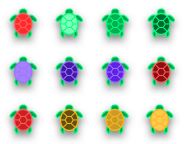
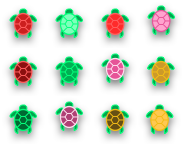
Update purple turtle sprites (fixes #503)

diff --git a/libhaliteviz/src/colors.js b/libhaliteviz/src/colors.js
@@ -11,7 +11,7 @@ export const COLOR_SCALE_2 = [
 ];
 
 export const COLORBLIND = [
- 0xcbcbcb,0xcbcbcb,0xcbcbcb,0xcbcbcb,0xcbcbcb,0xcbcbcb,0xcbcbcb,0xcbcbcb,0xcbcbcb,0xcbcbcb,0xcbcccb,0xcbcccb,0xcbcccb,0xcbcccc,0xcbcccc,0xcbcccc,0xcbcccc,0xcbcccc,0xcbcccc,0xcbcccc,0xcbcccc,0xcbcccc,0xcbcccc,0xcbcccc,0xcbcccc,0xcbcccc,0xcbcccc,0xcbcccc,0xcbcccc,0xcbcccc,0xcbcdcc,0xcbcdcc,0xcacdcc,0xcacdcc,0xcacdcc,0xcacdcc,0xcacdcc,0xcacdcd,0xcacdcd,0xcacdcd,0xcacdcd,0xcacdcd,0xcacdcd,0xcacdcd,0xcacdcd,0xcacdcd,0xcacdcd,0xcacdcd,0xcacdcd,0xcacecd,0xcacecd,0xcacecd,0xcacecd,0xcacecd,0xcacecd,0xcacecd,0xcacecd,0xcacecd,0xcacecd,0xcacecd,0xcacecd,0xcacece,0xcacece,0xcacece,0xcacece,0xcacece,0xcacece,0xcacece,0xcacece,0xcacfce,0xcacfce,0xcacfce,0xcacfce,0xcacfce,0xcacfce,0xcacfce,0xcacfce,0xcacfce,0xcacfce,0xcacfce,0xcacfce,0xcacfce,0xcacfce,0xcacfce,0xcacfce,0xcacfcf,0xcacfcf,0xcacfcf,0xcad0cf,0xcad0cf,0xcad0cf,0xcad0cf,0xcad0cf,0xc9d0cf,0xc9d0cf,0xc9d0cf,0xc9d0cf,0xc9d0cf,0xc9d0cf,0xc9d0cf,0xc9d0cf,0xc9d0cf,0xc9d0cf,0xc9d0cf,0xc9d0cf,0xc9d0cf,0xc9d0cf,0xc9d0cf,0xc9d1cf,0xc9d1d0,0xc9d1d0,0xc9d1d0,0xc9d1d0,0xc9d1d0,0xc9d1d0,0xc9d1d0,0xc9d1d0,0xc9d1d0,0xc9d1d0,0xc9d1d0,0xc9d1d0,0xc9d1d0,0xc9d1d0,0xc9d1d0,0xc9d1d0,0xc9d1d0,0xc9d1d0,0xc9d2d0,0xc9d2d0,0xc9d2d0,0xc9d2d0,0xc9d2d0,0xc9d2d0,0xc9d2d0,0xc9d2d1,0xc9d2d1,0xc9d2d1,0xc9d2d1,0xc9d2d1,0xc9d2d1,0xc9d2d1,0xc9d2d1,0xc9d2d1,0xc9d2d1,0xc9d2d1,0xc9d2d1,0xc9d2d1,0xc9d3d1,0xc9d3d1,0xc9d3d1,0xc8d3d1,0xc8d3d1,0xc8d3d1,0xc8d3d1,0xc8d3d1,0xc8d3d1,0xc8d3d1,0xc8d3d1,0xc8d3d2,0xc8d3d2,0xc8d3d2,0xc8d3d2,0xc8d3d2,0xc8d3d2,0xc8d3d2,0xc8d3d2,0xc8d4d2,0xc8d4d2,0xc8d4d2,0xc8d4d2,0xc8d4d2,0xc8d4d2,0xc8d4d2,0xc8d4d2,0xc8d4d2,0xc8d4d2,0xc8d4d2,0xc8d4d2,0xc8d4d2,0xc8d4d2,0xc8d4d2,0xc8d4d2,0xc8d4d3,0xc8d4d3,0xc8d4d3,0xc8d4d3,0xc8d5d3,0xc8d5d3,0xc8d5d3,0xc8d5d3,0xc8d5d3,0xc8d5d3,0xc8d5d3,0xc8d5d3,0xc8d5d3,0xc8d5d3,0xc8d5d3,0xc8d5d3,0xc8d5d3,0xc8d5d3,0xc8d5d3,0xc8d5d3,0xc8d5d3,0xc8d5d3,0xc8d5d3,0xc7d6d3,0xc7d6d4,0xc7d6d4,0xc7d6d4,0xc7d6d4,0xc7d6d4,0xc7d6d4,0xc7d6d4,0xc7d6d4,0xc7d6d4,0xc7d6d4,0xc7d6d4,0xc7d6d4,0xc7d6d4,0xc7d6d4,0xc7d6d4,0xc7d6d4,0xc7d6d4,0xc7d6d4,0xc7d6d4,0xc7d7d4,0xc7d7d4,0xc7d7d4,0xc7d7d4,0xc7d7d4,0xc7d7d5,0xc7d7d5,0xc7d7d5,0xc7d7d5,0xc7d7d5,0xc7d7d5,0xc7d7d5,0xc7d7d5,0xc7d7d5,0xc7d7d5,0xc7d7d5,0xc7d7d5,0xc7d7d5,0xc7d7d5,0xc7d7d5,0xc7d8d5,0xc7d8d5,0xc7d8d5,0xc7d8d5,0xc7d8d5,0xc7d8d5,0xc7d8d5,0xc7d8d5,0xc7d8d5,0xc7d8d6,0xc7d8d6,0xc7d8d6,0xc7d8d6,0xc6d8d6,0xc6d8d6,0xc6d8d6,0xc6d8d6,0xc6d8d6,0xc6d8d6,0xc6d9d6,0xc6d9d6,0xc6d9d6,0xc6d9d6,0xc6d9d6,0xc6d9d6,0xc6d9d6,0xc6d9d6,0xc6d9d6,0xc6d9d6,0xc6d9d6,0xc6d9d6,0xc6d9d6,0xc6d9d6,0xc6d9d7,0xc6d9d7,0xc6d9d7,0xc6d9d7,0xc6d9d7,0xc6d9d7,0xc6dad7,0xc6dad7,0xc6dad7,0xc6dad7,0xc6dad7,0xc6dad7,0xc6dad7,0xc6dad7,0xc6dad7,0xc6dad7,0xc6dad7,0xc6dad7,0xc6dad7,0xc6dad7,0xc6dad7,0xc6dad7,0xc6dad7,0xc6dad7,0xc6dad8,0xc6dbd8,0xc6dbd8,0xc6dbd8,0xc6dbd8,0xc6dbd8,0xc5dbd8,0xc5dbd8,0xc5dbd8,0xc5dbd8,0xc5dbd8,0xc5dbd8,0xc5dbd8,0xc5dbd8,0xc5dbd8,0xc5dbd8,0xc5dbd8,0xc5dbd8,0xc5dbd8,0xc5dbd8,0xc5dbd8,0xc5dcd8,0xc5dcd8,0xc5dcd8,0xc5dcd9,0xc5dcd9,0xc5dcd9,0xc5dcd9,0xc5dcd9,0xc5dcd9,0xc5dcd9,0xc5dcd9,0xc5dcd9,0xc5dcd9,0xc5dcd9,0xc5dcd9,0xc5dcd9,0xc5dcd9,0xc5dcd9,0xc5dcd9,0xc5ddd9,0xc5ddd9,0xc5ddd9,0xc5ddd9,0xc5ddd9,0xc5ddd9,0xc5ddd9,0xc5ddd9,0xc5ddda,0xc5ddda,0xc5ddda,0xc5ddda,0xc5ddda,0xc5ddda,0xc5ddda,0xc4ddda,0xc4ddda,0xc4ddda,0xc4ddda,0xc4ddda,0xc4deda,0xc4deda,0xc4deda,0xc4deda,0xc4deda,0xc4deda,0xc4deda,0xc4deda,0xc4deda,0xc4deda,0xc4deda,0xc4deda,0xc4dedb,0xc4dedb,0xc4dedb,0xc4dedb,0xc4dedb,0xc4dedb,0xc4dedb,0xc4dedb,0xc4dfdb,0xc4dfdb,0xc4dfdb,0xc4dfdb,0xc4dfdb,0xc4dfdb,0xc4dfdb,0xc4dfdb,0xc4dfdb,0xc4dfdb,0xc4dfdb,0xc4dfdb,0xc4dfdb,0xc4dfdb,0xc4dfdb,0xc4dfdb,0xc4dfdc,0xc4dfdc,0xc4dfdc,0xc4e0dc,0xc4e0dc,0xc3e0dc,0xc3e0dc,0xc3e0dc,0xc3e0dc,0xc3e0dc,0xc3e0dc,0xc3e0dc,0xc3e0dc,0xc3e0dc,0xc3e0dc,0xc3e0dc,0xc3e0dc,0xc3e0dc,0xc3e0dc,0xc3e0dc,0xc3e0dc,0xc3e0dc,0xc3e0dc,0xc3e1dd,0xc3e1dd,0xc3e1dd,0xc3e1dd,0xc3e1dd,0xc3e1dd,0xc3e1dd,0xc3e1dd,0xc3e1dd,0xc3e1dd,0xc3e1dd,0xc3e1dd,0xc3e1dd,0xc3e1dd,0xc3e1dd,0xc3e1dd,0xc3e1dd,0xc3e1dd,0xc3e1dd,0xc3e2dd,0xc3e2dd,0xc3e2dd,0xc3e2dd,0xc3e2dd,0xc3e2de,0xc3e2de,0xc3e2de,0xc2e2de,0xc2e2de,0xc2e2de,0xc2e2de,0xc2e2de,0xc2e2de,0xc2e2de,0xc2e2de,0xc2e2de,0xc2e2de,0xc2e2de,0xc2e2de,0xc2e3de,0xc2e3de,0xc2e3de,0xc2e3de,0xc2e3de,0xc2e3de,0xc2e3de,0xc2e3de,0xc2e3de,0xc2e3df,0xc2e3df,0xc2e3df,0xc2e3df,0xc2e3df,0xc2e3df,0xc2e3df,0xc2e3df,0xc2e3df,0xc2e3df,0xc2e3df,0xc2e4df,0xc2e4df,0xc2e4df,0xc2e4df,0xc2e4df,0xc2e4df,0xc2e4df,0xc2e4df,0xc2e4df,0xc2e4df,0xc2e4df,0xc2e4df,0xc1e4df,0xc1e4e0,0xc1e4e0,0xc1e4e0,0xc1e4e0,0xc1e4e0,0xc1e4e0,0xc1e5e0,0xc1e5e0,0xc1e5e0,0xc1e5e0,0xc1e5e0,0xc1e5e0,0xc1e5e0,0xc1e5e0,0xc1e5e0,0xc1e5e0,0xc1e5e0,0xc1e5e0,0xc1e5e0,0xc1e5e0,0xc1e5e0,0xc1e5e0,0xc1e5e0,0xc1e5e0,0xc1e5e1,0xc1e5e1,0xc1e6e1,0xc1e6e1,0xc1e6e1,0xc1e6e1,0xc1e6e1,0xc1e6e1,0xc1e6e1,0xc1e6e1,0xc1e6e1,0xc1e6e1,0xc1e6e1,0xc1e6e1,0xc1e6e1,0xc1e6e1,0xc1e6e1,0xc0e6e1,0xc0e6e1,0xc0e6e1,0xc0e6e1,0xc0e7e1,0xc0e7e1,0xc0e7e2,0xc0e7e2,0xc0e7e2,0xc0e7e2,0xc0e7e2,0xc0e7e2,0xc0e7e2,0xc0e7e2,0xc0e7e2,0xc0e7e2,0xc0e7e2,0xc0e7e2,0xc0e7e2,0xc0e7e2,0xc0e7e2,0xc0e7e2,0xc0e7e2,0xc0e7e2,0xc0e8e2,0xc0e8e2,0xc0e8e2,0xc0e8e2,0xc0e8e2,0xc0e8e2,0xc0e8e3,0xc0e8e3,0xc0e8e3,0xc0e8e3,0xc0e8e3,0xc0e8e3,0xc0e8e3,0xc0e8e3,0xc0e8e3,0xc0e8e3,0xc0e8e3,0xbfe8e3,0xbfe8e3,0xbfe8e3,0xbfe9e3,0xbfe9e3,0xbfe9e3,0xbfe9e3,0xbfe9e3,0xbfe9e3,0xbfe9e3,0xbfe9e3,0xbfe9e3,0xbfe9e3,0xbfe9e4,0xbfe9e4,0xbfe9e4,0xbfe9e4,0xbfe9e4,0xbfe9e4,0xbfe9e4,0xbfe9e4,0xbfe9e4,0xbfeae4,0xbfeae4,0xbfeae4,0xbfeae4,0xbfeae4,0xbfeae4,0xbfeae4,0xbfeae4,0xbfeae4,0xbfeae4,0xbfeae4,0xbfeae4,0xbfeae4,0xbfeae4,0xbfeae4,0xbfeae5,0xbfeae5,0xbeeae5,0xbeeae5,0xbeeae5,0xbeebe5,0xbeebe5,0xbeebe5,0xbeebe5,0xbeebe5,0xbeebe5,0xbeebe5,0xbeebe5,0xbeebe5,0xbeebe5,0xbeebe5,0xbeebe5,0xbeebe5,0xbeebe5,0xbeebe5,0xbeebe5,0xbeebe5,0xbeebe5,0xbeebe6,0xbeece6,0xbeece6,0xbeece6,0xbeece6,0xbeece6,0xbeece6,0xbeece6,0xbeece6,0xbeece6,0xbeece6,0xbeece6,0xbeece6,0xbeece6,0xbeece6,0xbeece6,0xbeece6,0xbdece6,0xbdece6,0xbdece6,0xbdece6,0xbdede6,0xbdede6,0xbdede6,0xbdede7,0xbdede7,0xbdede7,0xbdede7,0xbdede7,0xbdede7,0xbdede7,0xbdede7,0xbdede7,0xbdede7,0xbdede7,0xbdede7,0xbdede7,0xbdede7,0xbdede7,0xbdede7,0xbdede7,0xbdeee7,0xbdeee7,0xbdeee7,0xbdeee7,0xbdeee7,0xbdeee7,0xbdeee8,0xbdeee8,0xbdeee8,0xbdeee8,0xbdeee8,0xbdeee8,0xbdeee8,0xbdeee8,0xbceee8,0xbceee8,0xbceee8,0xbceee8,0xbceee8,0xbcefe8,0xbcefe8,0xbcefe8,0xbcefe8,0xbcefe8,0xbcefe8,0xbcefe8,0xbcefe8,0xbcefe8,0xbcefe8,0xbcefe8,0xbcefe9,0xbcefe9,0xbcefe9,0xbcefe9,0xbcefe9,0xbcefe9,0xbcefe9,0xbcefe9,0xbcefe9,0xbcf0e9,0xbcf0e9,0xbcf0e9,0xbcf0e9,0xbcf0e9,0xbcf0e9,0xbcf0e9,0xbcf0e9,0xbcf0e9,0xbcf0e9,0xbcf0e9,0xbbf0e9,0xbbf0e9,0xbbf0e9,0xbbf0e9,0xbbf0ea,0xbbf0ea,0xbbf0ea,0xbbf0ea,0xbbf0ea,0xbbf1ea,0xbbf1ea,0xbbf1ea,0xbbf1ea,0xbbf1ea,0xbbf1ea,0xbbf1ea,0xbbf1ea,0xbbf1ea,0xbbf1ea,0xbbf1ea,0xbbf1ea,0xbbf1ea,0xbbf1ea,0xbbf1ea,0xbbf1ea,0xbbf1ea,0xbbf1ea,0xbbf1eb,0xbbf2eb,0xbbf2eb,0xbbf2eb,0xbbf2eb,0xbbf2eb,0xbbf2eb,0xbbf2eb,0xbaf2eb,0xbaf2eb,0xbaf2eb,0xbaf2eb,0xbaf2eb,0xbaf2eb,0xbaf2eb,0xbaf2eb,0xbaf2eb,0xbaf2eb,0xbaf2eb,0xbaf2eb,0xbaf2eb,0xbaf3eb,0xbaf3eb,0xbaf3eb,0xbaf3ec,0xbaf3ec,0xbaf3ec,0xbaf3ec,0xbaf3ec,0xbaf3ec,0xbaf3ec,0xbaf3ec,0xbaf3ec,0xbaf3ec,0xbaf3ec,0xbaf3ec,0xbaf3ec,0xbaf3ec,0xbaf3ec,0xbaf3ec,0xbaf4ec,0xbaf4ec,0xb9f4ec,0xb9f4ec,0xb9f4ec,0xb9f4ec,0xb9f4ec,0xb9f4ed,0xb9f4ed,0xb9f4ed,0xb9f4ed,0xb9f4ed,0xb9f4ed,0xb9f4ed,0xb9f4ed,0xb9f4ed,0xb9f4ed,0xb9f4ed,0xb9f4ed,0xb9f4ed,0xb9f5ed,0xb9f5ed,0xb9f5ed,0xb9f5ed,0xb9f5ed,0xb9f5ed,0xb9f5ed,0xb9f5ed,0xb9f5ed,0xb9f5ed,0xb9f5ed,0xb9f5ee,0xb9f5ee,0xb9f5ee,0xb9f5ee,0xb9f5ee,0xb8f5ee,0xb8f5ee,0xb8f5ee,0xb8f5ee,0xb8f6ee,0xb8f6ee,0xb8f6ee,0xb8f6ee,0xb8f6ee,0xb8f6ee,0xb8f6ee,0xb8f6ee,0xb8f6ee,0xb8f6ee,0xb8f6ee,0xb8f6ee,0xb8f6ee,0xb8f6ee,0xb8f6ef,0xb8f6ef,0xb8f6ef,0xb8f6ef,0xb8f6ef,0xb8f7ef,0xb8f7ef,0xb8f7ef,0xb8f7ef,0xb8f7ef,0xb8f7ef,0xb8f7ef,0xb8f7ef,0xb8f7ef,0xb8f7ef,0xb7f7ef,0xb7f7ef,0xb7f7ef,0xb7f7ef,0xb7f7ef,0xb7f7ef,0xb7f7ef,0xb7f7ef,0xb7f7ef,0xb7f7f0,0xb7f8f0,0xb7f8f0,0xb7f8f0,0xb7f8f0,0xb7f8f0,0xb7f8f0,0xb7f8f0,0xb7f8f0,0xb7f8f0,0xb7f8f0,0xb7f8f0,0xb7f8f0,0xb7f8f0,0xb7f8f0,0xb7f8f0,0xb7f8f0,0xb7f8f0,0xb7f8f0,0xb7f8f0,0xb7f8f0,0xb7f9f0,0xb7f9f0,0xb6f9f1,0xb6f9f1,0xb6f9f1,0xb6f9f1,0xb6f9f1,0xb6f9f1,0xb6f9f1,0xb6f9f1,0xb6f9f1,0xb6f9f1,0xb6f9f1,0xb6f9f1,0xb6f9f1,0xb6f9f1,0xb6f9f1,0xb6f9f1,0xb6f9f1,0xb6faf1,0xb6faf1,0xb6faf1,0xb6faf1,0xb6faf1,0xb6faf1,0xb6faf1,0xb6faf2,0xb6faf2,0xb6faf2,0xb6faf2,0xb6faf2,0xb6faf2,0xb6faf2,0xb5faf2,0xb5faf2,0xb5faf2,0xb5faf2,0xb5faf2,0xb5faf2,0xb5fbf2,0xb5fbf2,0xb5fbf2,0xb5fbf2,0xb5fbf2,0xb5fbf2,0xb5fbf2,0xb5fbf2,0xb5fbf2,0xb5fbf2,0xb5fbf3,0xb5fbf3,0xb5fbf3,0xb5fbf3,0xb5fbf3,0xb5fbf3,0xb5fbf3,0xb5fbf3,0xb5fbf3,0xb5fcf3,0xb5fcf3,0xb5fcf3,0xb5fcf3,0xb5fcf3,0xb4fcf3,0xb4fcf3,0xb4fcf3,0xb4fcf3,0xb4fcf3,0xb4fcf3,0xb4fcf3,0xb4fcf3,0xb4fcf3,0xb4fcf4,0xb4fcf4,0xb4fcf4,0xb4fcf4,0xb4fcf4,0xb4fcf4,0xb4fdf4,0xb4fdf4,0xb4fdf4,0xb4fdf4,0xb4fdf4,0xb4fdf4,0xb4fdf4,0xb4fdf4,0xb4fdf4,0xb4fdf4,0xb4fdf4,0xb4fdf4,0xb4fdf4,0xb4fdf4,0xb4fdf4,0xb3fdf4,0xb3fdf4,0xb3fdf4,0xb3fdf5,0xb3fdf5,0xb3fef5,0xb3fef5,0xb3fef5,0xb3fef5,0xb3fef5,0xb3fef5,0xb3fef5,0xb3fef5,0xb3fef5,0xb3fef5
+0x585d6f,0x585d6f,0x585d6f,0x585d6f,0x585d6f,0x595e6f,0x595e70,0x595e70,0x595e70,0x595e70,0x595e70,0x595e70,0x595e70,0x595e70,0x5a5e70,0x5a5f70,0x5a5f70,0x5a5f70,0x5a5f71,0x5a5f71,0x5a5f71,0x5a5f71,0x5a5f71,0x5a5f71,0x5b5f71,0x5b6071,0x5b6071,0x5b6071,0x5b6071,0x5b6072,0x5b6072,0x5b6072,0x5b6072,0x5c6072,0x5c6072,0x5c6172,0x5c6172,0x5c6172,0x5c6172,0x5c6172,0x5c6172,0x5c6173,0x5d6173,0x5d6173,0x5d6173,0x5d6273,0x5d6273,0x5d6273,0x5d6273,0x5d6273,0x5d6273,0x5e6273,0x5e6274,0x5e6274,0x5e6374,0x5e6374,0x5e6374,0x5e6374,0x5e6374,0x5e6374,0x5f6374,0x5f6374,0x5f6374,0x5f6375,0x5f6475,0x5f6475,0x5f6475,0x5f6475,0x5f6475,0x5f6475,0x606475,0x606475,0x606475,0x606475,0x606575,0x606576,0x606576,0x606576,0x606576,0x616576,0x616576,0x616576,0x616576,0x616676,0x616676,0x616676,0x616677,0x616677,0x626677,0x626677,0x626677,0x626677,0x626677,0x626777,0x626777,0x626777,0x626777,0x636778,0x636778,0x636778,0x636778,0x636778,0x636778,0x636878,0x636878,0x636878,0x646878,0x646878,0x646878,0x646879,0x646879,0x646879,0x646979,0x646979,0x646979,0x656979,0x656979,0x656979,0x656979,0x656979,0x65697a,0x65697a,0x656a7a,0x656a7a,0x666a7a,0x666a7a,0x666a7a,0x666a7a,0x666a7a,0x666a7a,0x666a7a,0x666a7b,0x666b7b,0x676b7b,0x676b7b,0x676b7b,0x676b7b,0x676b7b,0x676b7b,0x676b7b,0x676b7b,0x676c7b,0x676c7b,0x686c7c,0x686c7c,0x686c7c,0x686c7c,0x686c7c,0x686c7c,0x686c7c,0x686c7c,0x686d7c,0x696d7c,0x696d7c,0x696d7d,0x696d7d,0x696d7d,0x696d7d,0x696d7d,0x696d7d,0x696e7d,0x6a6e7d,0x6a6e7d,0x6a6e7d,0x6a6e7d,0x6a6e7e,0x6a6e7e,0x6a6e7e,0x6a6e7e,0x6a6e7e,0x6b6f7e,0x6b6f7e,0x6b6f7e,0x6b6f7e,0x6b6f7e,0x6b6f7e,0x6b6f7f,0x6b6f7f,0x6b6f7f,0x6c707f,0x6c707f,0x6c707f,0x6c707f,0x6c707f,0x6c707f,0x6c707f,0x6c707f,0x6c707f,0x6d7080,0x6d7180,0x6d7180,0x6d7180,0x6d7180,0x6d7180,0x6d7180,0x6d7180,0x6d7180,0x6e7180,0x6e7280,0x6e7281,0x6e7281,0x6e7281,0x6e7281,0x6e7281,0x6e7281,0x6e7281,0x6f7281,0x6f7281,0x6f7381,0x6f7381,0x6f7382,0x6f7382,0x6f7382,0x6f7382,0x6f7382,0x707382,0x707382,0x707482,0x707482,0x707482,0x707482,0x707483,0x707483,0x707483,0x717483,0x717483,0x717483,0x717583,0x717583,0x717583,0x717583,0x717583,0x717584,0x727584,0x727584,0x727584,0x727684,0x727684,0x727684,0x727684,0x727684,0x727684,0x737684,0x737684,0x737685,0x737685,0x737785,0x737785,0x737785,0x737785,0x737785,0x747785,0x747785,0x747785,0x747785,0x747886,0x747886,0x747886,0x747886,0x747886,0x757886,0x757886,0x757886,0x757886,0x757986,0x757986,0x757987,0x757987,0x757987,0x767987,0x767987,0x767987,0x767987,0x767987,0x767a87,0x767a87,0x767a87,0x767a88,0x777a88,0x777a88,0x777a88,0x777a88,0x777a88,0x777b88,0x777b88,0x777b88,0x777b88,0x787b88,0x787b89,0x787b89,0x787b89,0x787b89,0x787b89,0x787c89,0x787c89,0x797c89,0x797c89,0x797c89,0x797c89,0x797c8a,0x797c8a,0x797c8a,0x797d8a,0x797d8a,0x7a7d8a,0x7a7d8a,0x7a7d8a,0x7a7d8a,0x7a7d8a,0x7a7d8a,0x7a7d8b,0x7a7e8b,0x7a7e8b,0x7b7e8b,0x7b7e8b,0x7b7e8b,0x7b7e8b,0x7b7e8b,0x7b7e8b,0x7b7e8b,0x7b7f8b,0x7b7f8c,0x7c7f8c,0x7c7f8c,0x7c7f8c,0x7c7f8c,0x7c7f8c,0x7c7f8c,0x7c7f8c,0x7c7f8c,0x7c808c,0x7d808c,0x7d808d,0x7d808d,0x7d808d,0x7d808d,0x7d808d,0x7d808d,0x7d808d,0x7d818d,0x7e818d,0x7e818d,0x7e818d,0x7e818e,0x7e818e,0x7e818e,0x7e818e,0x7e818e,0x7e828e,0x7f828e,0x7f828e,0x7f828e,0x7f828e,0x7f828e,0x7f828f,0x7f828f,0x7f828f,0x80828f,0x80838f,0x80838f,0x80838f,0x80838f,0x80838f,0x80838f,0x80838f,0x808390,0x818390,0x818490,0x818490,0x818490,0x818490,0x818490,0x818490,0x818490,0x818490,0x828490,0x828591,0x828591,0x828591,0x828591,0x828591,0x828591,0x828591,0x828591,0x838591,0x838691,0x838691,0x838692,0x838692,0x838692,0x838692,0x838692,0x838692,0x848692,0x848792,0x848792,0x848792,0x848792,0x848793,0x848793,0x848793,0x848793,0x858793,0x858793,0x858893,0x858893,0x858893,0x858893,0x858893,0x858894,0x868894,0x868894,0x868894,0x868994,0x868994,0x868994,0x868994,0x868994,0x868994,0x878994,0x878995,0x878995,0x878a95,0x878a95,0x878a95,0x878a95,0x878a95,0x878a95,0x888a95,0x888a95,0x888a95,0x888b96,0x888b96,0x888b96,0x888b96,0x888b96,0x888b96,0x898b96,0x898b96,0x898b96,0x898c96,0x898c96,0x898c97,0x898c97,0x898c97,0x8a8c97,0x8a8c97,0x8a8c97,0x8a8c97,0x8a8d97,0x8a8d97,0x8a8d97,0x8a8d97,0x8a8d98,0x8b8d98,0x8b8d98,0x8b8d98,0x8b8d98,0x8b8d98,0x8b8e98,0x8b8e98,0x8b8e98,0x8b8e98,0x8c8e98,0x8c8e99,0x8c8e99,0x8c8e99,0x8c8e99,0x8c8f99,0x8c8f99,0x8c8f99,0x8c8f99,0x8d8f99,0x8d8f99,0x8d8f99,0x8d8f9a,0x8d8f9a,0x8d909a,0x8d909a,0x8d909a,0x8e909a,0x8e909a,0x8e909a,0x8e909a,0x8e909a,0x8e909a,0x8e919b,0x8e919b,0x8e919b,0x8f919b,0x8f919b,0x8f919b,0x8f919b,0x8f919b,0x8f919b,0x8f929b,0x8f929c,0x8f929c,0x90929c,0x90929c,0x90929c,0x90929c,0x90929c,0x90929c,0x90939c,0x90939c,0x91939c,0x91939d,0x91939d,0x91939d,0x91939d,0x91939d,0x91939d,0x91949d,0x91949d,0x92949d,0x92949d,0x92949d,0x92949e,0x92949e,0x92949e,0x92949e,0x92959e,0x92959e,0x93959e,0x93959e,0x93959e,0x93959e,0x93959e,0x93959f,0x93959f,0x93969f,0x94969f,0x94969f,0x94969f,0x94969f,0x94969f,0x94969f,0x94969f,0x94969f,0x9497a0,0x9597a0,0x9597a0,0x9597a0,0x9597a0,0x9597a0,0x9597a0,0x9597a0,0x9597a0,0x9598a0,0x9698a0,0x9698a1,0x9698a1,0x9698a1,0x9698a1,0x9698a1,0x9698a1,0x9698a1,0x9799a1,0x9799a1,0x9799a1,0x9799a2,0x9799a2,0x9799a2,0x9799a2,0x9799a2,0x9799a2,0x989aa2,0x989aa2,0x989aa2,0x989aa2,0x989aa2,0x989aa3,0x989aa3,0x989aa3,0x999aa3,0x999ba3,0x999ba3,0x999ba3,0x999ba3,0x999ba3,0x999ba3,0x999ba3,0x999ba4,0x9a9ba4,0x9a9ca4,0x9a9ca4,0x9a9ca4,0x9a9ca4,0x9a9ca4,0x9a9ca4,0x9a9ca4,0x9a9ca4,0x9b9ca4,0x9b9da5,0x9b9da5,0x9b9da5,0x9b9da5,0x9b9da5,0x9b9da5,0x9b9da5,0x9c9da5,0x9c9da5,0x9c9ea5,0x9c9ea6,0x9c9ea6,0x9c9ea6,0x9c9ea6,0x9c9ea6,0x9c9ea6,0x9d9ea6,0x9d9ea6,0x9d9fa6,0x9d9fa6,0x9d9fa6,0x9d9fa7,0x9d9fa7,0x9d9fa7,0x9e9fa7,0x9e9fa7,0x9e9fa7,0x9ea0a7,0x9ea0a7,0x9ea0a7,0x9ea0a7,0x9ea0a7,0x9ea0a8,0x9fa0a8,0x9fa0a8,0x9fa0a8,0x9fa1a8,0x9fa1a8,0x9fa1a8,0x9fa1a8,0x9fa1a8,0xa0a1a8,0xa0a1a9,0xa0a1a9,0xa0a1a9,0xa0a2a9,0xa0a2a9,0xa0a2a9,0xa0a2a9,0xa0a2a9,0xa1a2a9,0xa1a2a9,0xa1a2a9,0xa1a3aa,0xa1a3aa,0xa1a3aa,0xa1a3aa,0xa1a3aa,0xa2a3aa,0xa2a3aa,0xa2a3aa,0xa2a3aa,0xa2a4aa,0xa2a4aa,0xa2a4ab,0xa2a4ab,0xa2a4ab,0xa3a4ab,0xa3a4ab,0xa3a4ab,0xa3a4ab,0xa3a5ab,0xa3a5ab,0xa3a5ab,0xa3a5ab,0xa4a5ac,0xa4a5ac,0xa4a5ac,0xa4a5ac,0xa4a5ac,0xa4a6ac,0xa4a6ac,0xa4a6ac,0xa4a6ac,0xa5a6ac,0xa5a6ad,0xa5a6ad,0xa5a6ad,0xa5a6ad,0xa5a7ad,0xa5a7ad,0xa5a7ad,0xa6a7ad,0xa6a7ad,0xa6a7ad,0xa6a7ad,0xa6a7ae,0xa6a7ae,0xa6a8ae,0xa6a8ae,0xa6a8ae,0xa7a8ae,0xa7a8ae,0xa7a8ae,0xa7a8ae,0xa7a8ae,0xa7a8af,0xa7a9af,0xa7a9af,0xa8a9af,0xa8a9af,0xa8a9af,0xa8a9af,0xa8a9af,0xa8a9af,0xa8aaaf,0xa8aaaf,0xa8aab0,0xa9aab0,0xa9aab0,0xa9aab0,0xa9aab0,0xa9aab0,0xa9aab0,0xa9abb0,0xa9abb0,0xaaabb0,0xaaabb0,0xaaabb1,0xaaabb1,0xaaabb1,0xaaabb1,0xaaabb1,0xaaacb1,0xaaacb1,0xabacb1,0xabacb1,0xabacb1,0xabacb2,0xabacb2,0xabacb2,0xabacb2,0xabadb2,0xacadb2,0xacadb2,0xacadb2,0xacadb2,0xacadb2,0xacadb2,0xacadb3,0xacadb3,0xacaeb3,0xadaeb3,0xadaeb3,0xadaeb3,0xadaeb3,0xadaeb3,0xadaeb3,0xadaeb3,0xadafb3,0xaeafb4,0xaeafb4,0xaeafb4,0xaeafb4,0xaeafb4,0xaeafb4,0xaeafb4,0xaeafb4,0xaeb0b4,0xafb0b4,0xafb0b5,0xafb0b5,0xafb0b5,0xafb0b5,0xafb0b5,0xafb0b5,0xafb0b5,0xb0b1b5,0xb0b1b5,0xb0b1b5,0xb0b1b5,0xb0b1b6,0xb0b1b6,0xb0b1b6,0xb0b1b6,0xb1b1b6,0xb1b2b6,0xb1b2b6,0xb1b2b6,0xb1b2b6,0xb1b2b6,0xb1b2b7,0xb1b2b7,0xb1b2b7,0xb2b3b7,0xb2b3b7,0xb2b3b7,0xb2b3b7,0xb2b3b7,0xb2b3b7,0xb2b3b7,0xb2b3b7,0xb3b3b8,0xb3b4b8,0xb3b4b8,0xb3b4b8,0xb3b4b8,0xb3b4b8,0xb3b4b8,0xb3b4b8,0xb3b4b8,0xb4b4b8,0xb4b5b9,0xb4b5b9,0xb4b5b9,0xb4b5b9,0xb4b5b9,0xb4b5b9,0xb4b5b9,0xb5b5b9,0xb5b6b9,0xb5b6b9,0xb5b6b9,0xb5b6ba,0xb5b6ba,0xb5b6ba,0xb5b6ba,0xb6b6ba,0xb6b6ba,0xb6b7ba,0xb6b7ba,0xb6b7ba,0xb6b7ba,0xb6b7bb,0xb6b7bb,0xb6b7bb,0xb7b7bb,0xb7b7bb,0xb7b8bb,0xb7b8bb,0xb7b8bb,0xb7b8bb,0xb7b8bb,0xb7b8bb,0xb8b8bc,0xb8b8bc,0xb8b9bc,0xb8b9bc,0xb8b9bc,0xb8b9bc,0xb8b9bc,0xb8b9bc,0xb9b9bc,0xb9b9bc,0xb9b9bd,0xb9babd,0xb9babd,0xb9babd,0xb9babd,0xb9babd,0xb9babd,0xbababd,0xbababd,0xbababd,0xbabbbd,0xbabbbe,0xbabbbe,0xbabbbe,0xbabbbe,0xbbbbbe,0xbbbbbe,0xbbbbbe,0xbbbcbe,0xbbbcbe,0xbbbcbe,0xbbbcbf,0xbbbcbf,0xbcbcbf,0xbcbcbf,0xbcbcbf,0xbcbcbf,0xbcbdbf,0xbcbdbf,0xbcbdbf,0xbcbdbf,0xbcbdbf,0xbdbdc0,0xbdbdc0,0xbdbdc0,0xbdbdc0,0xbdbec0,0xbdbec0,0xbdbec0,0xbdbec0,0xbebec0,0xbebec0,0xbebec1,0xbebec1,0xbebfc1,0xbebfc1,0xbebfc1,0xbebfc1,0xbfbfc1,0xbfbfc1,0xbfbfc1,0xbfbfc1,0xbfbfc1,0xbfc0c2,0xbfc0c2,0xbfc0c2,0xbfc0c2,0xc0c0c2,0xc0c0c2,0xc0c0c2,0xc0c0c2,0xc0c0c2,0xc0c1c2,0xc0c1c3,0xc0c1c3,0xc1c1c3,0xc1c1c3,0xc1c1c3,0xc1c1c3,0xc1c1c3,0xc1c2c3,0xc1c2c3,0xc1c2c3,0xc2c2c3,0xc2c2c4,0xc2c2c4,0xc2c2c4,0xc2c2c4,0xc2c2c4,0xc2c3c4,0xc2c3c4,0xc3c3c4,0xc3c3c4,0xc3c3c4,0xc3c3c5,0xc3c3c5,0xc3c3c5,0xc3c4c5,0xc3c4c5,0xc3c4c5,0xc4c4c5,0xc4c4c5,0xc4c4c5,0xc4c4c5,0xc4c4c6,0xc4c4c6,0xc4c5c6,0xc4c5c6,0xc5c5c6,0xc5c5c6,0xc5c5c6,0xc5c5c6,0xc5c5c6,0xc5c5c6,0xc5c5c6,0xc5c6c7,0xc6c6c7,0xc6c6c7,0xc6c6c7,0xc6c6c7,0xc6c6c7,0xc6c6c7,0xc6c6c7,0xc6c7c7,0xc7c7c7,0xc7c7c8,0xc7c7c8,0xc7c7c8,0xc7c7c8,0xc7c7c8,0xc7c7c8,0xc7c7c8,0xc7c8c8,0xc8c8c8,0xc8c8c8,0xc8c8c8,0xc8c8c9,0xc8c8c9,0xc8c8c9,0xc8c8c9,0xc8c9c9,0xc9c9c9,0xc9c9c9,0xc9c9c9,0xc9c9c9,0xc9c9c9,0xc9c9ca,0xc9c9ca,0xc9c9ca,0xcacaca,0xcacaca,0xcacaca,0xcacaca,0xcacaca,0xcacaca,0xcacaca,0xcacacb,0xcbcbcb,0xcbcbcb,0xcbcbcb,0xcbcbcb,0xcbcbcb
 ];
 
 export const THEMES = {
